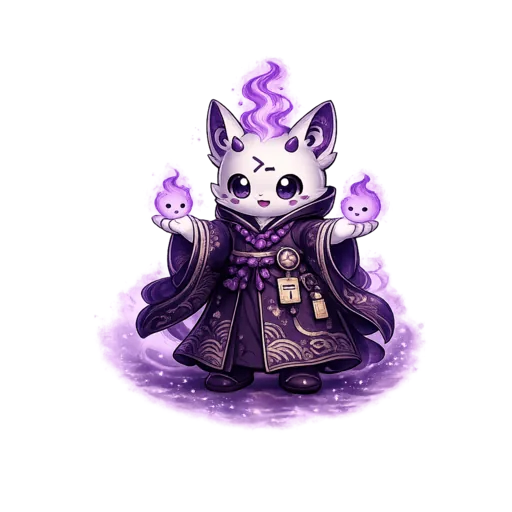
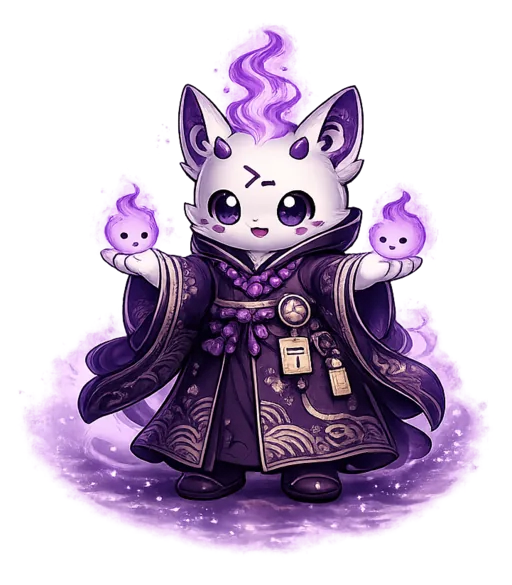
site: crop the hero portrait so she stands as tall as the text
Used whole, the square source rendered her 269 px tall beside a 498 px
block of text — she read as an afterthought, because 40% of the image
was transparent margin. The shipped rendition is now cropped to 721x824
around her, and the portrait column widens from 22rem to 27rem so her
own 0.87 aspect ratio can reach the text's height. She lands at 452 px,
within 4 px of the text.

Two costs, both measured and recorded in the spec: the text column drops
from 560 px to 480 px and its lede wraps one line more, and the critical-
path image goes from 96 KB to 188 KB. A 21rem floor on the text column
keeps the 780 px band from collapsing to a 300 px column.

diff --git a/site/templates/index.html b/site/templates/index.html
@@ -34,10 +34,10 @@
     </div>
 
     <figure class="hero__art">
-      <img class="art" src="{{ get_url(path='josephine-portrait-768.webp') }}"
-           srcset="{{ get_url(path='josephine-portrait-512.webp') }} 512w, {{ get_url(path='josephine-portrait-768.webp') }} 768w"
-           sizes="(max-width: 48rem) 16rem, 22rem"
-           width="768" height="768" loading="eager" decoding="async"
+      <img class="art" src="{{ get_url(path='josephine-portrait-721.webp') }}"
+           srcset="{{ get_url(path='josephine-portrait-512.webp') }} 512w, {{ get_url(path='josephine-portrait-721.webp') }} 721w"
+           sizes="(max-width: 48rem) 16rem, 27rem"
+           width="721" height="824" loading="eager" decoding="async"
            alt="{% if fr %}Joséphine, petite renarde gardienne en kimono sombre, une flamme violette dans chaque paume{% else %}Joséphine, a small fox guardian in a dark kimono, a violet flame in each palm{% endif %}">
     </figure>
 

diff --git a/site/sass/main.scss b/site/sass/main.scss
@@ -79,7 +79,7 @@ main, header, footer { position: relative; z-index: 1; }
 .hero {
   padding: 4.5rem 0 3.5rem;
   display: grid;
-  grid-template-columns: 1fr minmax(0, 22rem);
+  grid-template-columns: minmax(21rem, 1fr) minmax(0, 27rem);
   gap: 2.5rem 3rem;
   align-items: center;
 }

diff --git a/docs/superpowers/specs/2026-07-25-josephine-visual-identity-design.md b/docs/superpowers/specs/2026-07-25-josephine-visual-identity-design.md
@@ -67,7 +67,7 @@ Two widths per image, served via `srcset`, each sized for its slot rather than u
 
 | Slot | Image | Widths | Weight |
 |---|---|---|---|
-| Hero, right column | `checks` | 512 / 768 | 45 / 96 KB |
+| Hero, right column | `checks`, cropped | 512 / 721 | 87 / 188 KB |
 | "How she works" | `why` | 768 / 1024 | 103 / 173 KB |
 | Checks grid | `hero` | 768 / 1024 | 110 / 175 KB |
 | Footer | `footer` | 384 / 512 | 36 / 61 KB |
@@ -95,7 +95,16 @@ On narrow screens the portrait sits **under** the CTA. This is deliberately the 
 
 The real CLI readout (`.term`) stays exactly where it is, below the hero block: the terminal keeps its place in the identity, it simply no longer carries the page alone.
 
-`josephine-portrait` earns the hero slot because it is the only square, scenery-free image of the four. A square sits in a text-adjacent column without cropping, and it compresses better than the landscape scenes — 96 KB against 175 KB for the same visual weight.
+`josephine-portrait` earns the hero slot because it is the only scenery-free image of the four — nothing in it competes with the text beside it.
+
+**It is cropped, not used square.** The source is a 1024×1024 image in which the character occupies 681×784 with generous transparent margin — 182 px of empty space to her left, 161 to her right, 100 above, 140 below. Used whole, she rendered 269 px tall beside a 498 px block of text, and read as an afterthought. The shipped rendition is a tight crop, `724×1024+160+0` narrowed further to `721×824+162+80`, leaving 20 px of margin around her.
+
+Cropping raises two costs, both accepted deliberately:
+
+- The column widens from 22rem to 27rem so her own aspect ratio (0.87 wide to tall) can reach the text's height. That takes the text column from 560 px to 480 px, and the lede wraps one line more.
+- The crop caps the native width at 721 px, so a DPR 2 screen displaying her at 432 px receives 1.67× rather than 2×. On a soft-edged illustration this is barely perceptible; eliminating it would mean regenerating the source larger.
+
+A floor of `minmax(21rem, 1fr)` on the text column is required: without it, the 780 px band squeezed the text to 300 px wide and 695 px tall.
 
 **"How she works"** — the `.how__art` figure. The `m::guardian()` SVG is **deleted** from `macros.html`, comment, halo and wings included, and its `.guardian` rule leaves `main.scss`. `josephine-veille` takes the slot: it is the explanatory image, showing her reading a dashboard, and its landscape framing suits the two-column grid beside the `.flow` nodes.
 
@@ -125,12 +134,12 @@ Measured (full scroll-through, one page load each):
 
 | profile | fetched |
 |---|---|
-| phone 390 px, DPR 3 | 508 KB |
-| phone 390 px, DPR 2 | 322 KB |
-| desktop 1440 px, DPR 1 | 296 KB |
-| desktop 1440 px, DPR 2 | 438 KB |
+| phone 390 px, DPR 3 | 599 KB |
+| phone 390 px, DPR 2 | 364 KB |
+| desktop 1440 px, DPR 1 | 338 KB |
+| desktop 1440 px, DPR 2 | 529 KB |
 
-What makes it acceptable: only the hero portrait is on the critical path, at **96 KB** worst case. The other three load as the visitor scrolls. First paint costs one image, not four.
+What makes it acceptable: only the hero portrait is on the critical path. The other three load as the visitor scrolls, so first paint costs one image, not four — but that one image is now **188 KB** at DPR 2 and above, not the 96 KB of the uncropped square. Enlarging the portrait to match the text's height is what bought that: the crop removes transparent margin, so every pixel served carries drawing, and there are more of them. It is the most expensive single decision in this increment and it was made with the number in view.
 
 ---
 
